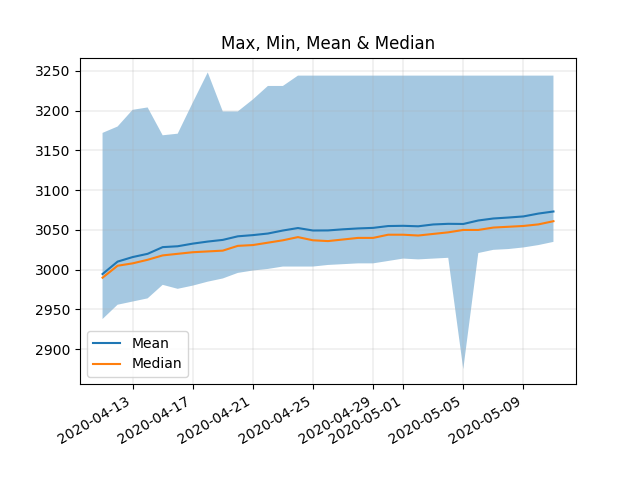
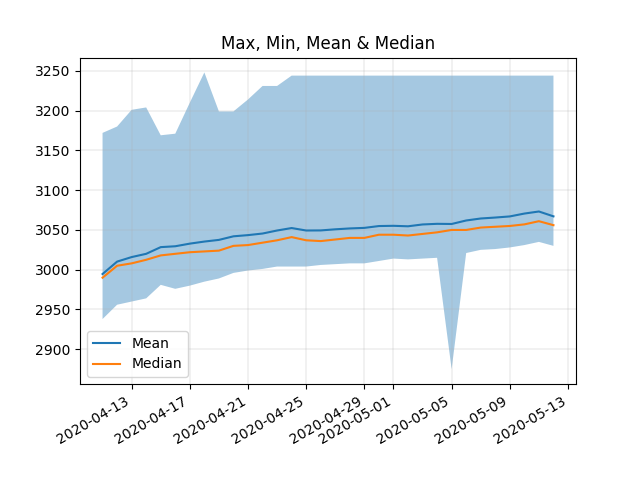
Tue May 12 15:30:14 EDT 2020

diff --git a/README.md b/README.md
@@ -1,10 +1,11 @@
 # MMR Drift Status
 
-**Last Updated (UTC):** 2020-05-11 21:15:12.219352
+**Last Updated (UTC):** 2020-05-12 19:30:13.977984
 ![Figure 1](/images/fig1.png)
 ![Figure 2](/images/fig2.png)
 |date| min| max| mean| drift_daily| drift_total| median| stdev|
 |:---|:---|:---|:---|:---|:---|:---|:--- |
+|12-May-2020| 3030| 3244| 3067.1| -6.1| 72.5| 3056.0| 35.4|
 |11-May-2020| 3035| 3244| 3073.2| 2.6| 78.5| 3061.0| 36.8|
 |10-May-2020| 3031| 3244| 3070.6| 3.5| 76.0| 3057.0| 37.9|
 |09-May-2020| 3028| 3244| 3067.0| 1.4| 72.4| 3055.0| 38.1|
